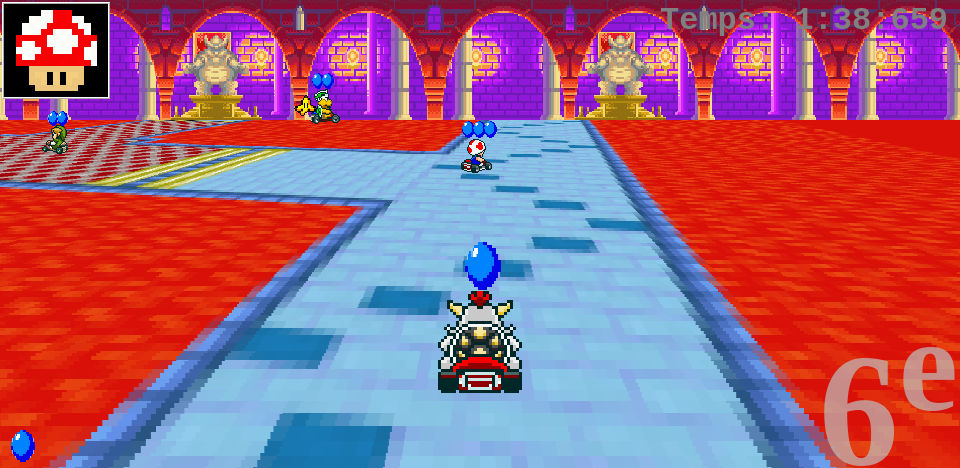
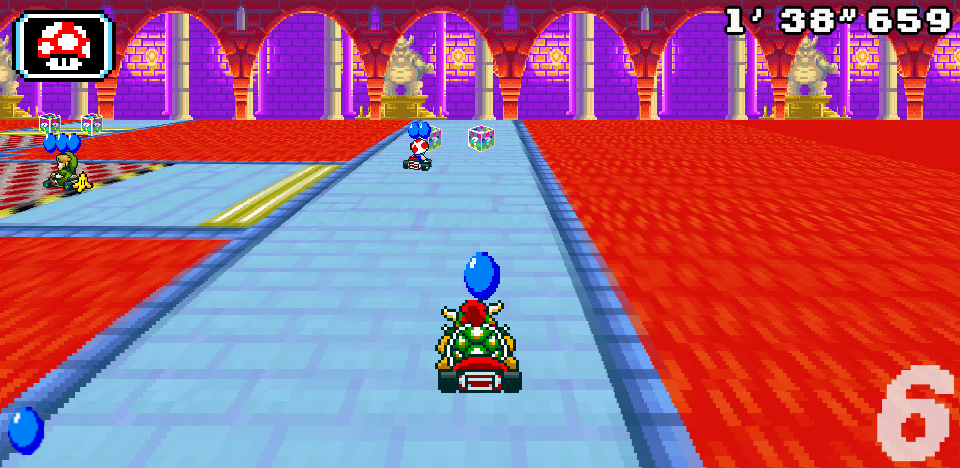
Update screenshots

diff --git a/styles/slider.css b/styles/slider.css
@@ -21,6 +21,7 @@
 	height:300px;
 	overflow:hidden;
 	position:relative;
+	image-rendering: pixelated;
 }
 
 .fp-title

diff --git a/index.php b/index.php
@@ -72,7 +72,7 @@ $slidesPath = 'images/slides';
 					</div>
 					
 					<div class="fp-slides-items">
-						<div class="fp-thumbnail" data-img="<?php echo $slidesPath; ?>/diapo2.jpg">
+						<div class="fp-thumbnail" data-img="<?php echo $slidesPath; ?>/diapo2.png">
 						</div>
 						<div class="fp-content-wrap">
 							<div class="fp-content">
@@ -162,7 +162,7 @@ $slidesPath = 'images/slides';
 					</div>
 					
 					<div class="fp-slides-items">
-						<div class="fp-thumbnail" data-img="<?php echo $slidesPath; ?>/diapo5.jpg">
+						<div class="fp-thumbnail" data-img="<?php echo $slidesPath; ?>/diapo5.png">
 						</div>
 						<div class="fp-content-wrap">
 							<div class="fp-content">
@@ -192,7 +192,7 @@ $slidesPath = 'images/slides';
 					</div>
 					
 					<div class="fp-slides-items">
-						<div class="fp-thumbnail" data-img="<?php echo $slidesPath; ?>/diapo6.jpg">
+						<div class="fp-thumbnail" data-img="<?php echo $slidesPath; ?>/diapo6.png">
 						</div>
 						<div class="fp-content-wrap">
 							<div class="fp-content">
@@ -222,7 +222,7 @@ $slidesPath = 'images/slides';
 					</div>
 					
 					<div class="fp-slides-items">
-						<div class="fp-thumbnail" data-img="<?php echo $slidesPath; ?>/diapo7.jpg">
+						<div class="fp-thumbnail" data-img="<?php echo $slidesPath; ?>/diapo7.png">
 						</div>
 						<div class="fp-content-wrap">
 							<div class="fp-content">
